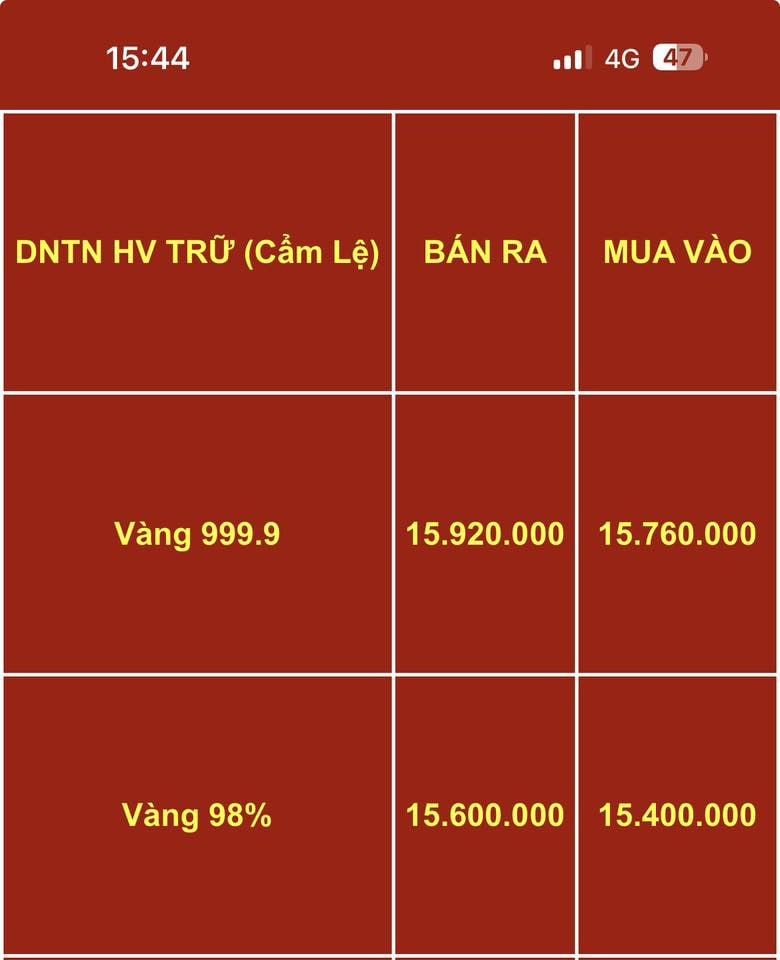
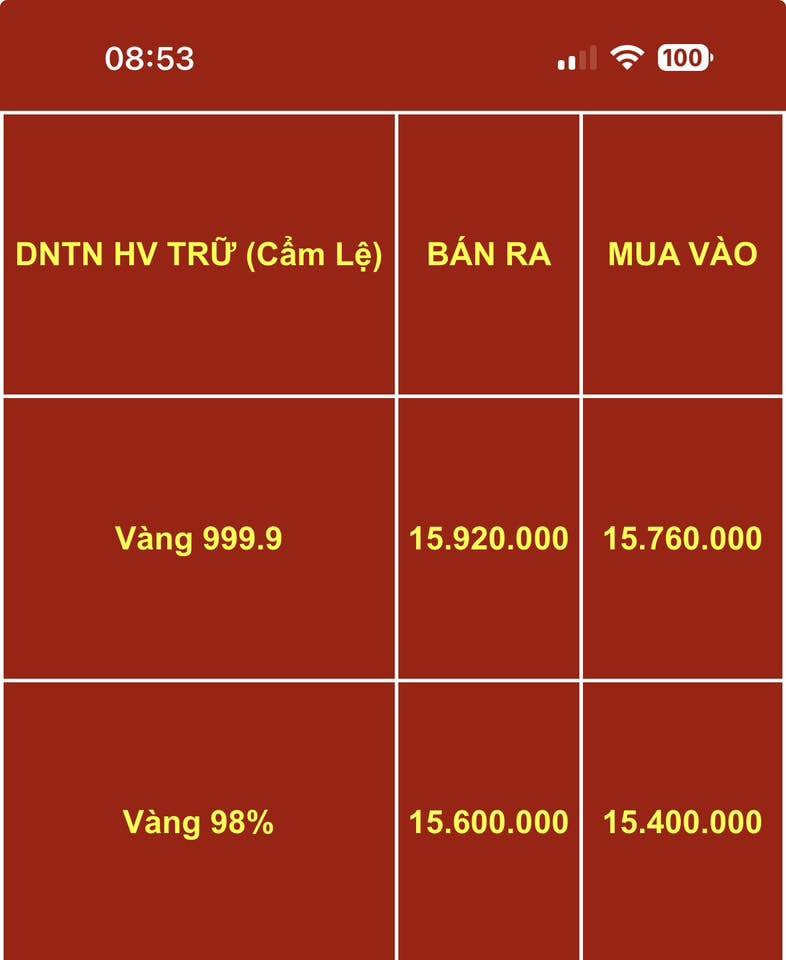
Update tru-cam-le price image (09:19)

diff --git a/app/data/goldShops.ts b/app/data/goldShops.ts
@@ -33,7 +33,7 @@ export const GOLD_SHOPS: GoldShop[] = [
     name: "Trữ Cẩm Lệ",
     location: "Đà Nẵng",
     image: "images/tru-cam-le.jpg",
-    updatedAt: "15:55",
+    updatedAt: "09:19",
   },
 ];
 
